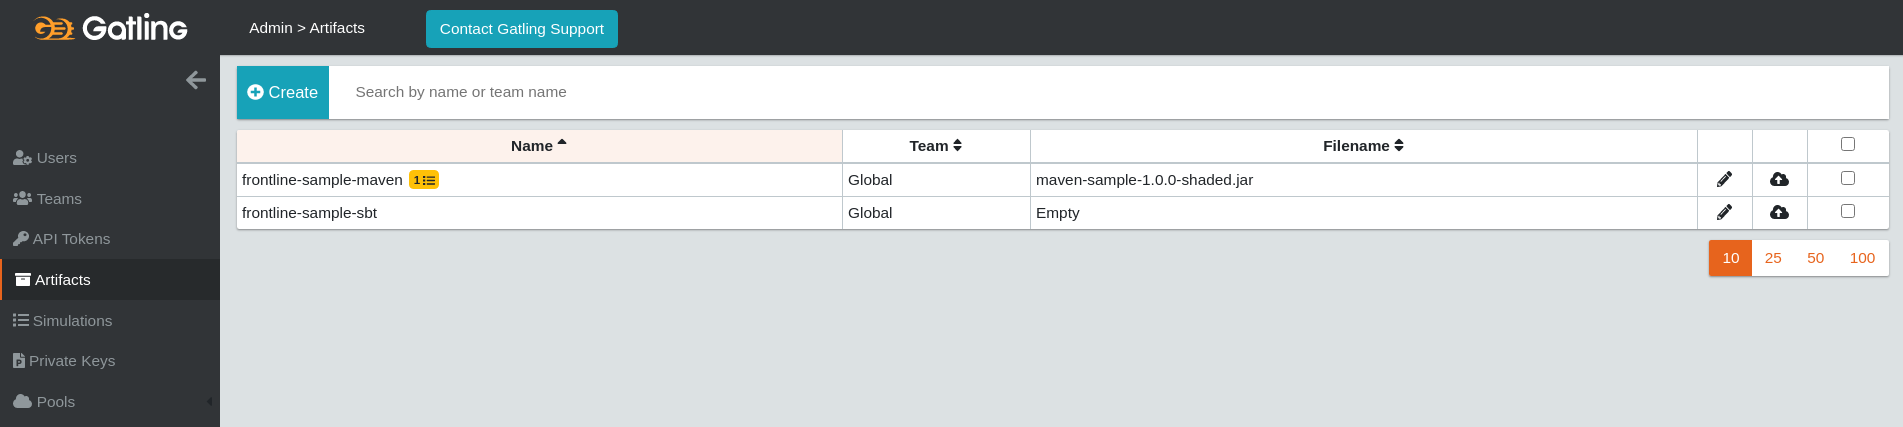
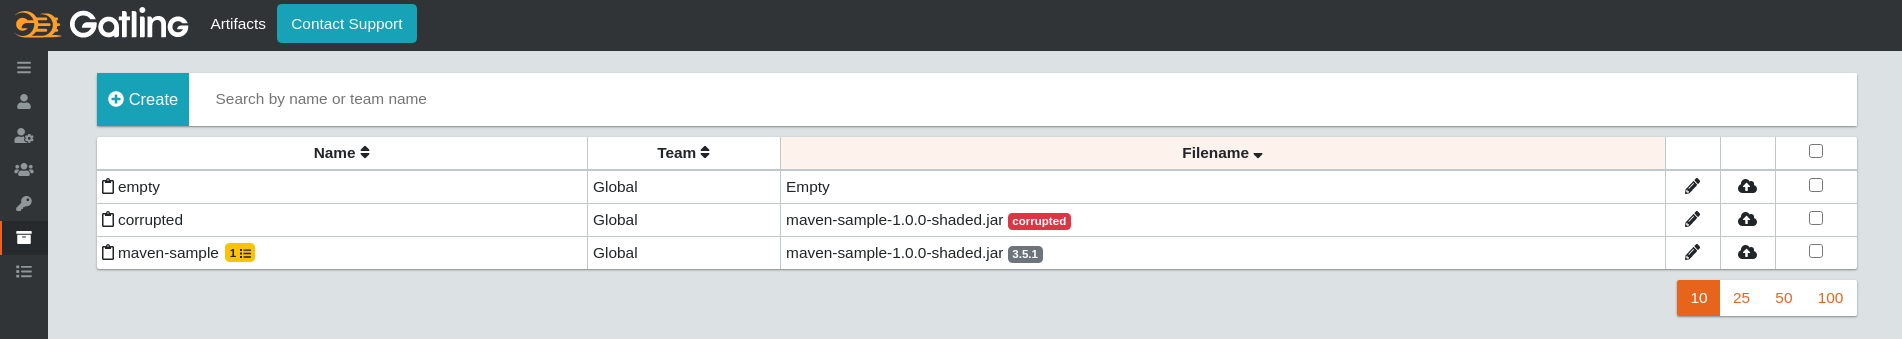
Document gatling version badge on artifact table, closes MISC-92

diff --git a/content/docs/user/artifact_conf/index.md b/content/docs/user/artifact_conf/index.md
@@ -18,7 +18,14 @@ To access the Artifacts section, click on **Artifacts** in the navbar.
 
 The Simulations view contains all the artifacts you have configured with the given name, team, and filename of uploaded artifact if not empty.
 
+Gatling version of the artifact is displayed in a badge next to the filename.
+
 {{< img src="artifact-table.png" alt="Artifact table" >}}
+
+{{< alert tip >}}
+Artifacts uploaded before the upload validation has been implemented may have a "corrupted" badge:
+check how to [generate an artifact](/docs/user/artifact_gen/), and upload it again.
+{{< / alert >}}
 
 ## Creation
 
